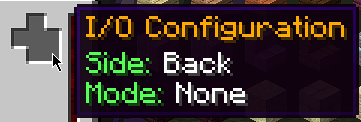
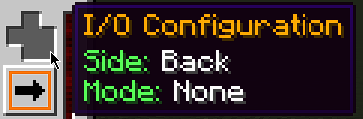
updated functionality guide for new version

diff --git a/FUNCTIONALITY.md b/FUNCTIONALITY.md
@@ -110,6 +110,16 @@ and both on the bottom side.
 
 ---
 
+**Auto Extraction**
+
+![](images/extract.png)
+
+This button toggles the Auto Extraction of the processor.<br>
+When enabled, the processor will push the stack from the output slot to adjacent inventories if the corresponding
+side is configured as either `Output` or `I/O`.
+
+---
+
 **Upgrade Slot**
 
 ![](images/upgrade_empty.png)
